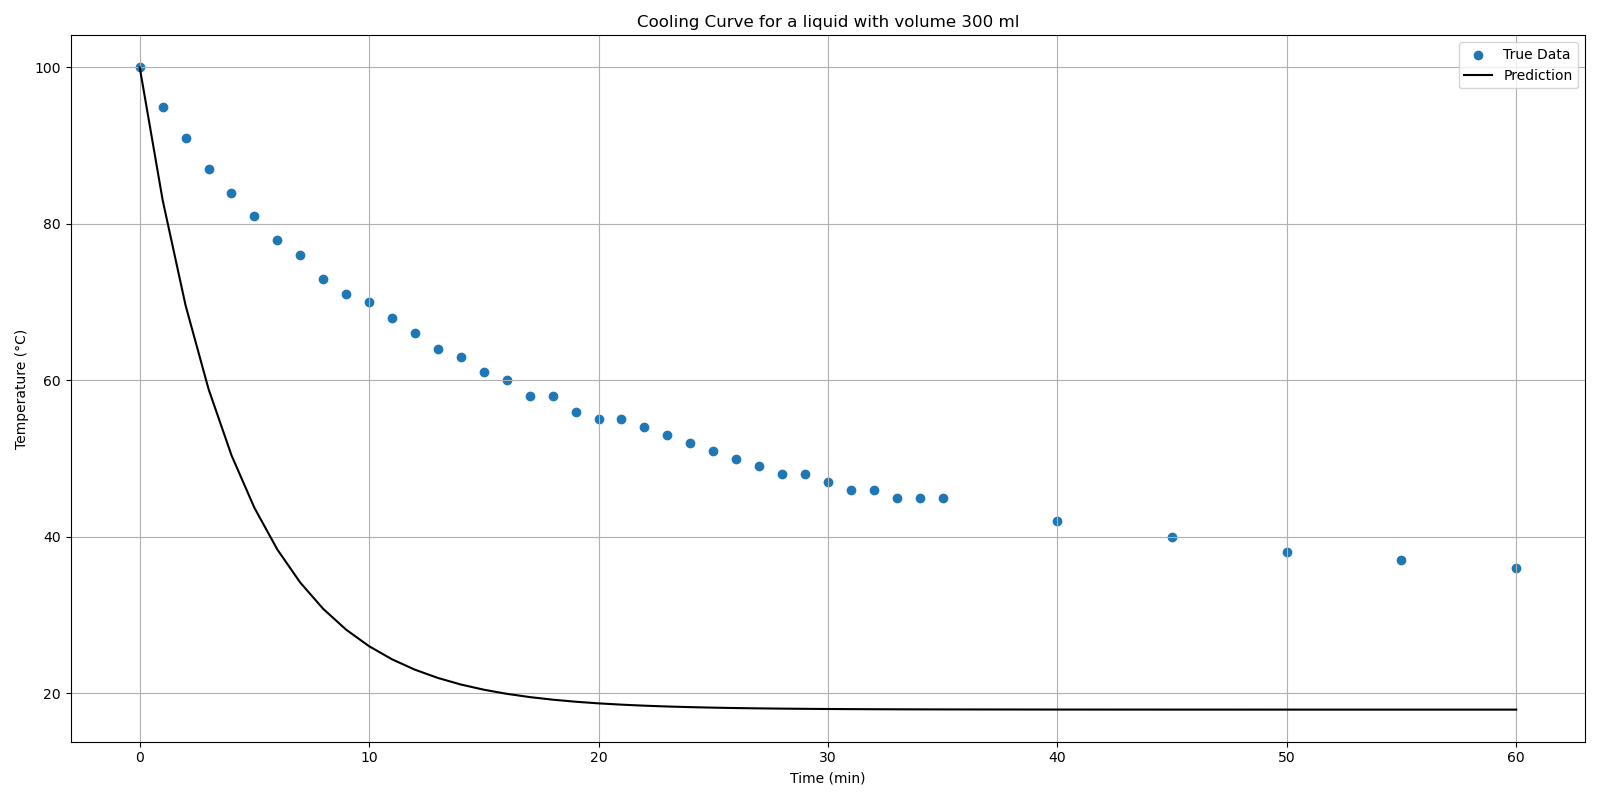
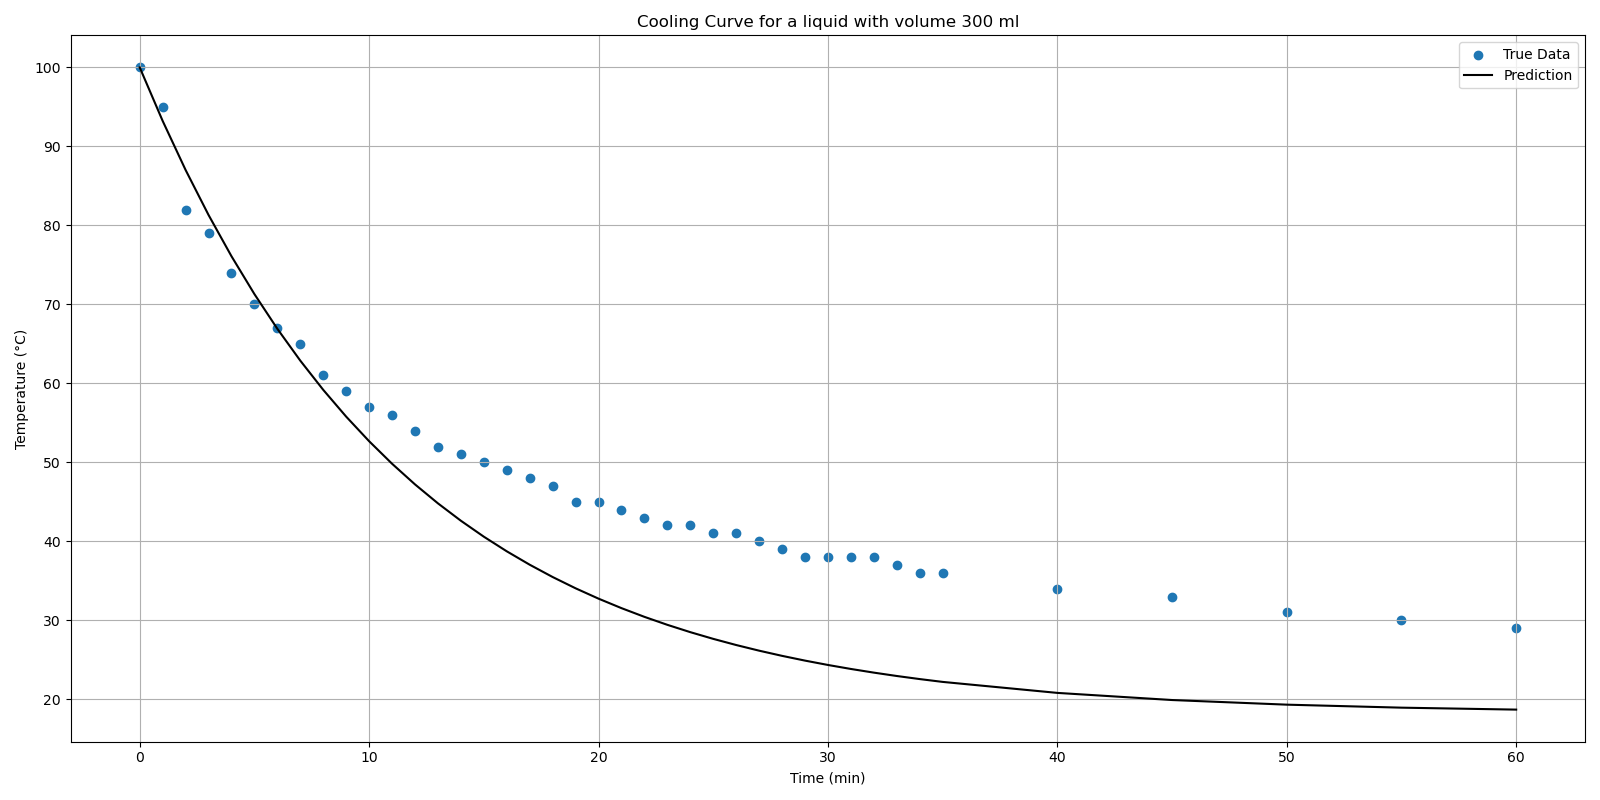
finished 300 case

diff --git a/project_code/NeuralODE_experiments.py b/project_code/NeuralODE_experiments.py
@@ -167,7 +167,8 @@ def experiment3(n_epoch, batch_size, plot_freq, true_data_file, file_name):
             super(TrainCoolingODEF, self).__init__(torch.randn(1), torch.randn(1) + 18)
 
     # Train different models for all volumes
-    volumes = [100, 300, 800]
+    # volumes = [100, 300, 800]
+    volumes = [300,]
     temp_tensors = [temp_tensor_100_ml, temp_tensor_300_ml, temp_tensor_800_ml]
     
     for vol, temp_tensor in zip(volumes, temp_tensors):
